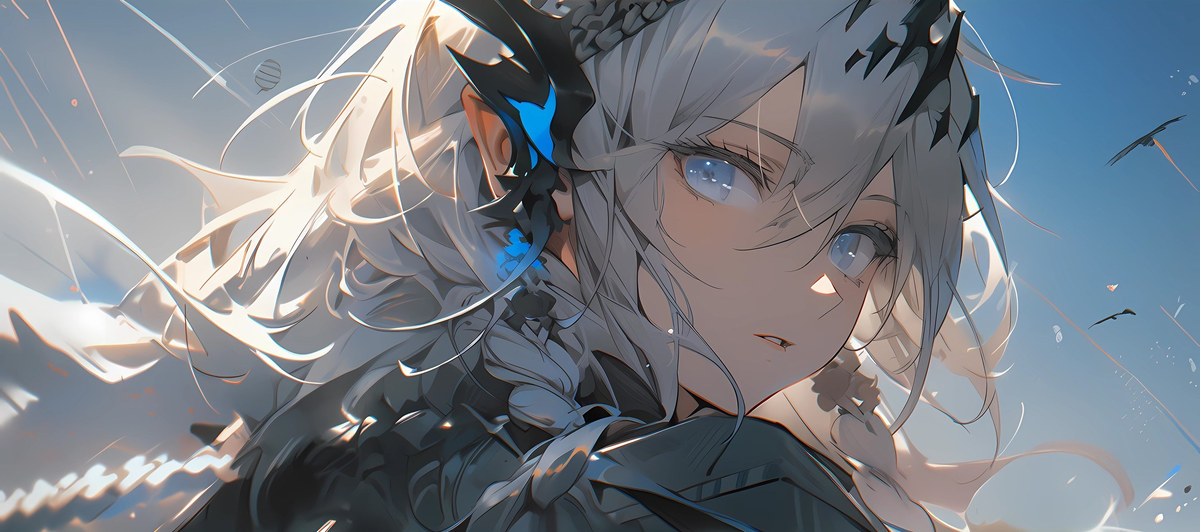
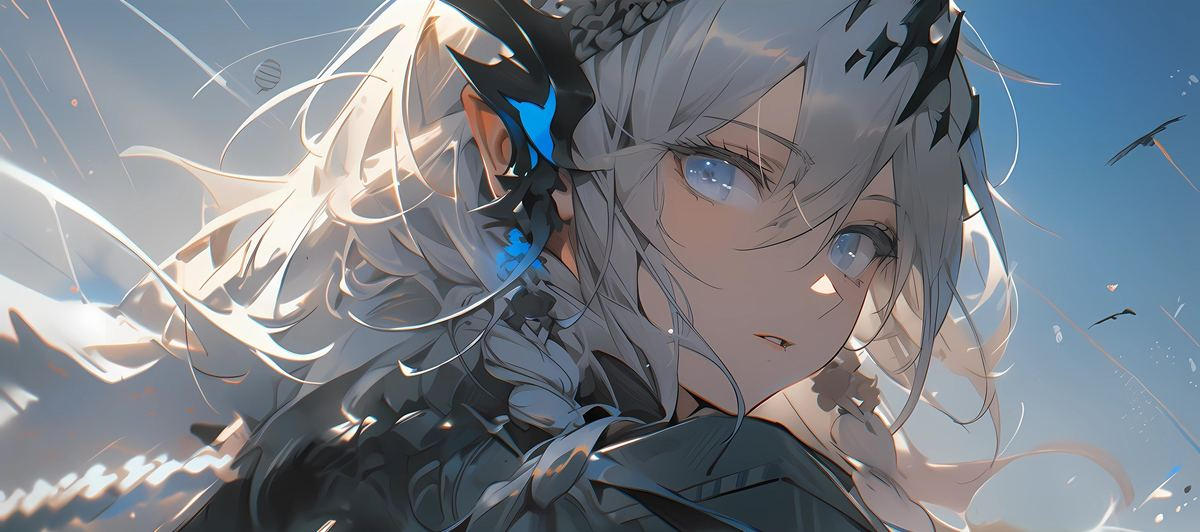
perf: 图片改用 WebP，hero 从 621KB 降到 81KB
实测发现的问题：从杭州（国内视角）测量博客，
初版的 hero.jpg（2560 宽 / quality 90 / 621 KB）下载 30 秒都没完成，
tail 直接超时。GitHub Pages 对国内的带宽本来就不宽裕，
图片一大就彻底卡死，面试官打开首页会是一片空白背景。

优化：
- hero.jpg 621 KB -> hero.webp 81 KB（1600 宽 / quality 76），降 87%
- bg.jpg 169 KB -> bg.webp 28 KB（1280 宽 / quality 62）
- og-cover.jpg 621->169->91 KB，保留 JPEG（社交平台抓取对 WebP 支持不一致）
- 图片总上传体积 881 KB -> 201 KB

说明：1600 宽在 720px 的正文容器里按 2x 屏计算已经足够，
再高的分辨率对肉眼没有意义，只是浪费国内用户的带宽。

diff --git a/assets/css/extended/custom.css b/assets/css/extended/custom.css
@@ -8,7 +8,14 @@
    设计取舍：
      首页用大图做 hero，视觉冲击最强；
      但全站如果直接铺原图，正文会看不清 —— 所以全站底图做了
-     高斯模糊 + 高透明度遮罩，只留一点纹理，保证阅读舒适。
+     轻微模糊 + 高透明度遮罩，只留一点纹理，保证阅读舒适。
+
+   ⚠ 图片格式用 WebP 而不是 JPEG，这是一次实测后的修正：
+     初版 hero 用 JPEG 2560 宽 / quality 90，单张 621 KB。
+     从国内（杭州）实测，这张图 30 秒都下载不完 —— GitHub Pages
+     的带宽对国内本来就不宽裕，图片一大就彻底卡住。
+     换成 WebP 1600 宽 / quality 76 之后只有 81 KB，降了 87%，
+     在 720px 宽的正文容器里肉眼几乎看不出差别。
    ============================================================ */
 
 /* ---------- 1. 全站底图 ---------- */
@@ -20,7 +27,7 @@ body.list {
     background-color: var(--theme);
     background-image:
         linear-gradient(rgba(255, 255, 255, 0.90), rgba(255, 255, 255, 0.90)),
-        url("/images/bg.jpg");
+        url("/images/bg.webp");
     background-size: cover;
     background-position: center top;
     background-repeat: no-repeat;
@@ -38,7 +45,7 @@ body.list {
 :root[data-theme="dark"] body.list {
     background-image:
         linear-gradient(rgba(29, 30, 32, 0.91), rgba(29, 30, 32, 0.91)),
-        url("/images/bg.jpg");
+        url("/images/bg.webp");
 }
 
 /* ---------- 2. 首页顶部大图 ---------- */
@@ -53,7 +60,7 @@ body.list .home-info {
             rgba(8, 12, 22, 0.80) 0%,
             rgba(8, 12, 22, 0.50) 55%,
             rgba(8, 12, 22, 0.28) 100%),
-        url("/images/hero.jpg");
+        url("/images/hero.webp");
     background-size: cover;
     background-position: center 20%;
     background-repeat: no-repeat;
